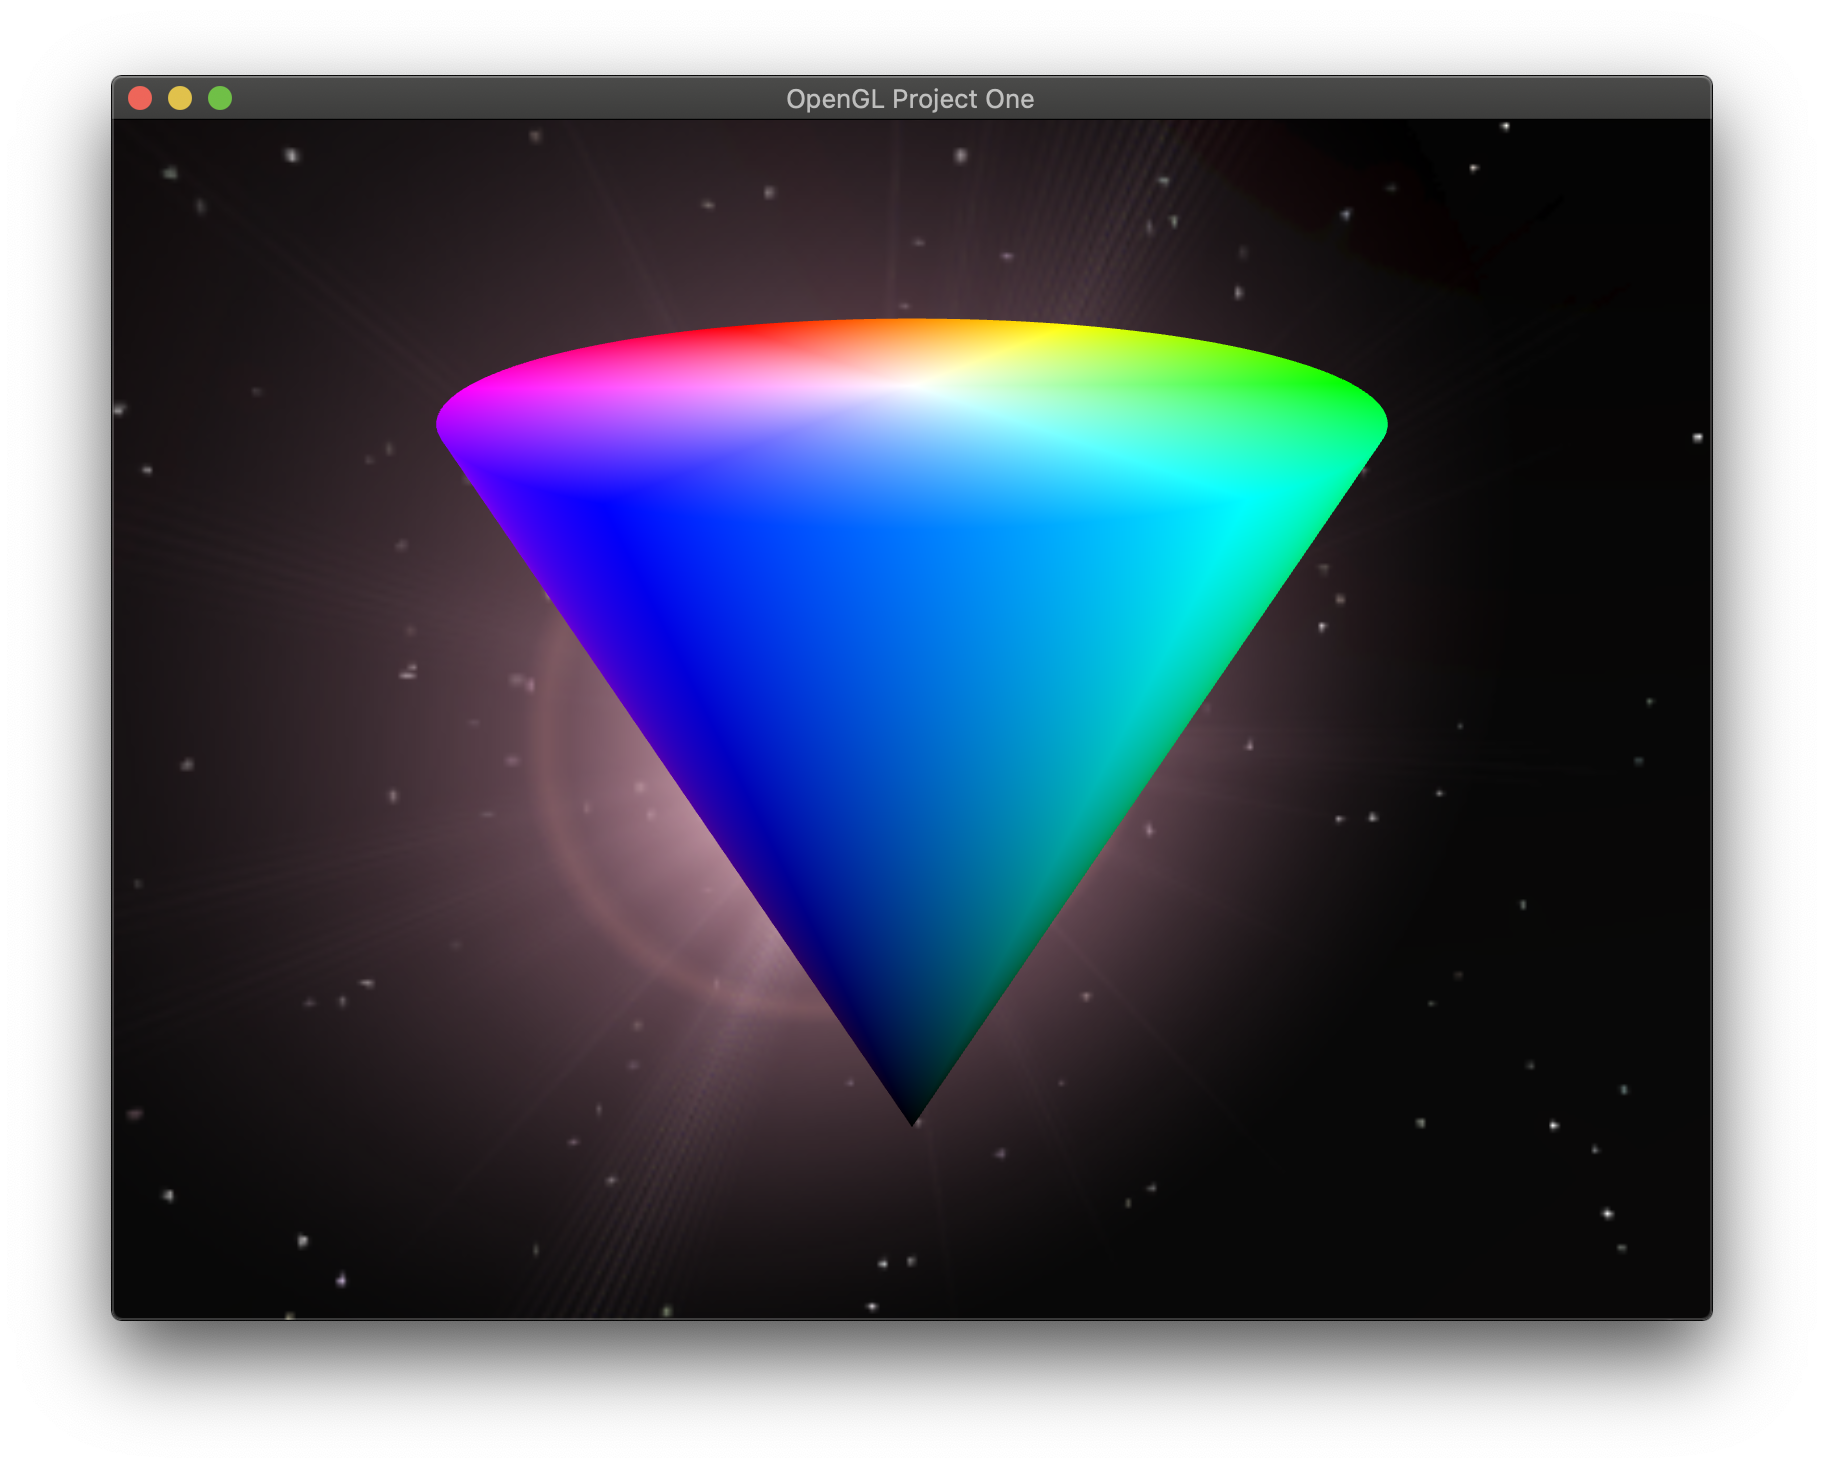
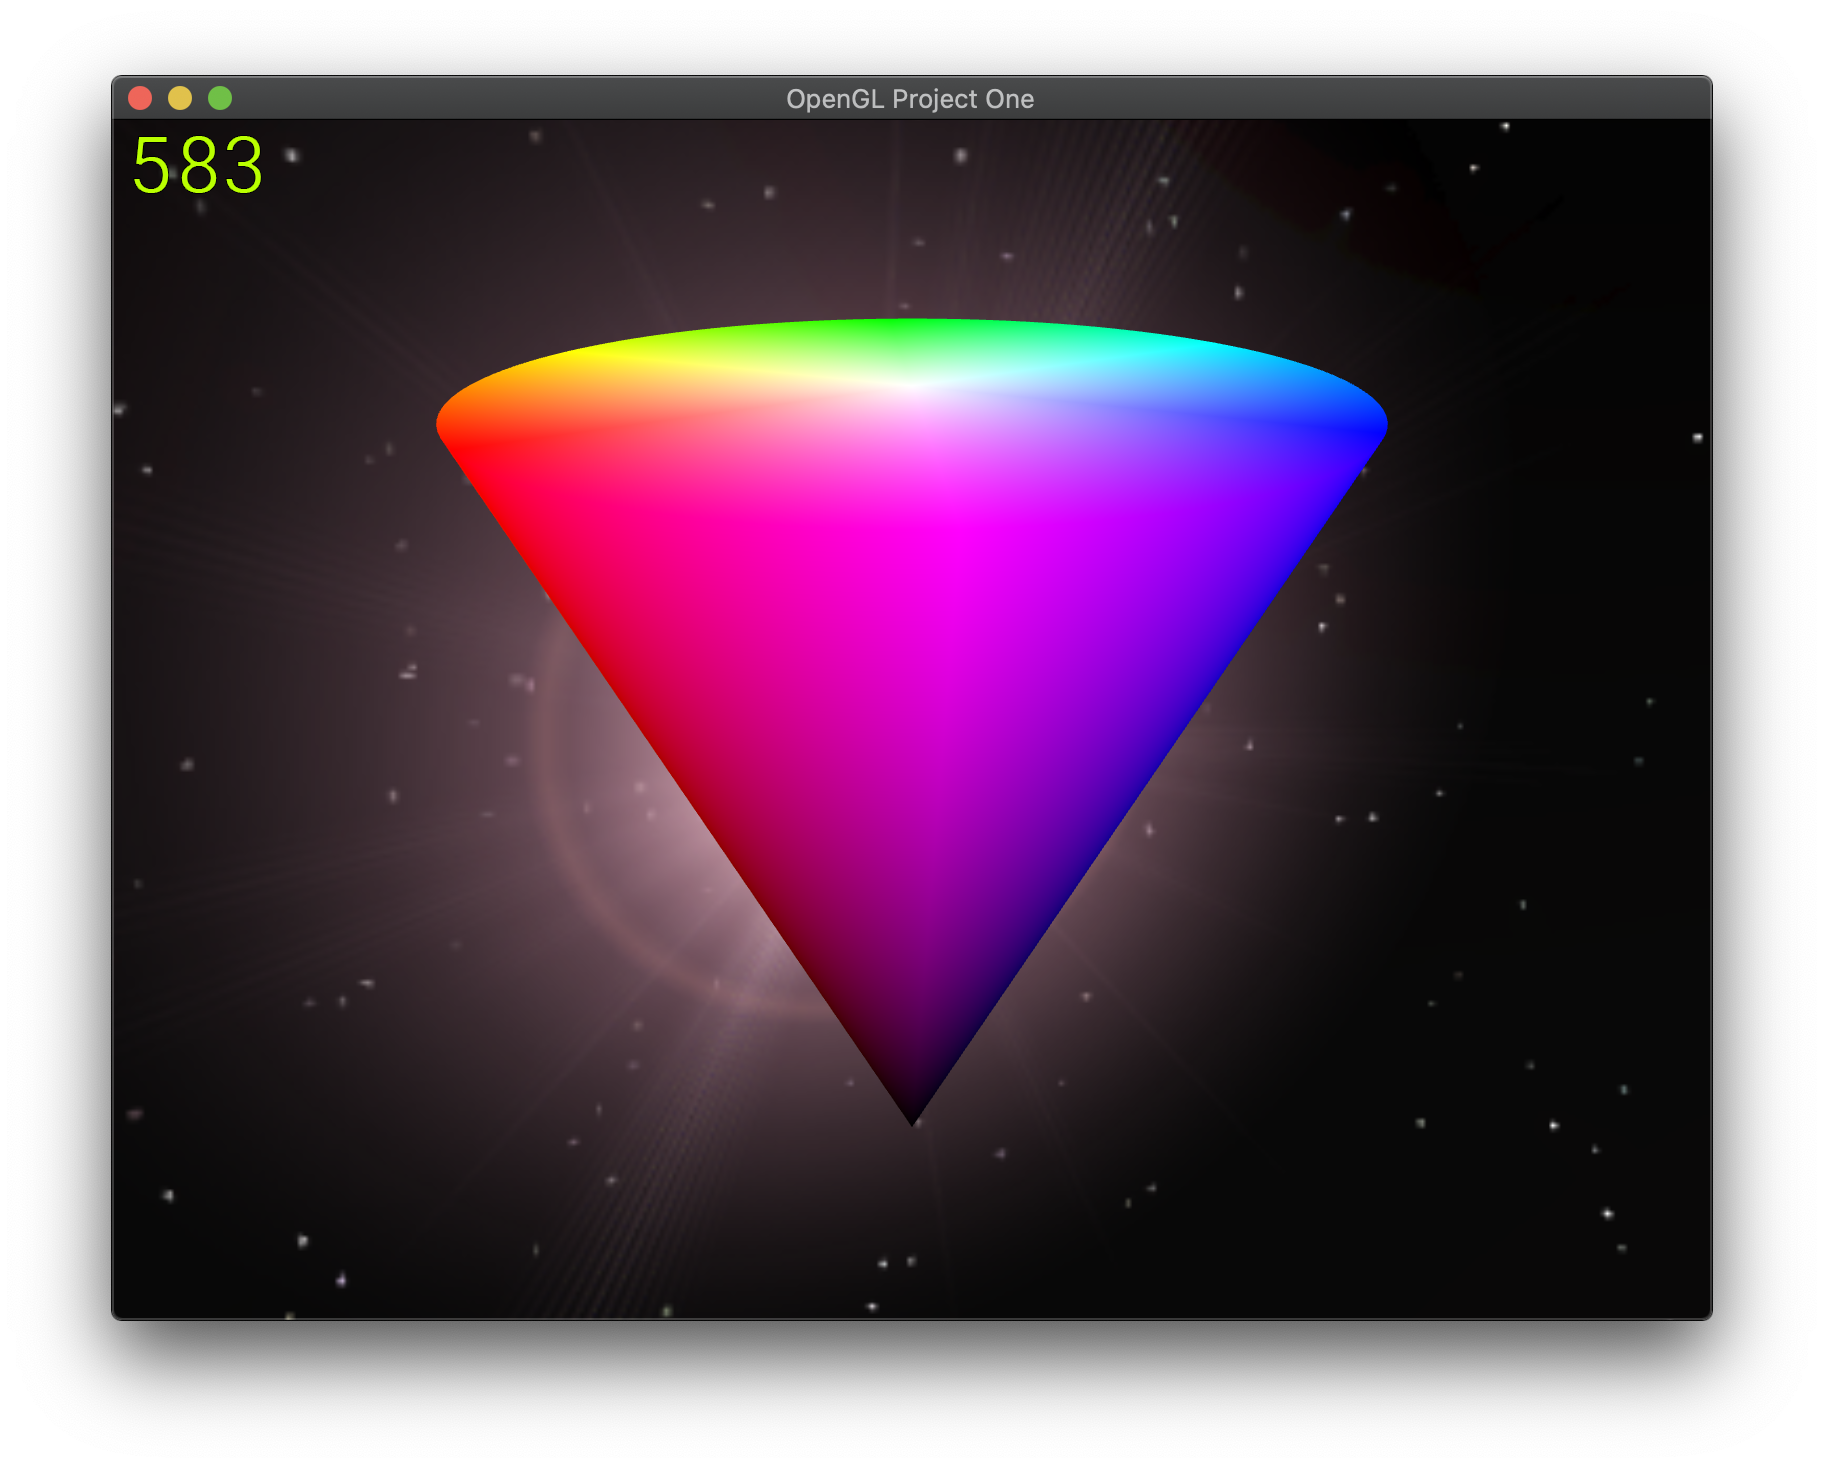
added fps display

Changed region(s): [[0.2188, 0.2146, 0.7812, 0.7663], [0.0625, 0.092, 0.1562, 0.1226]]

diff --git a/proj1/FPS.cpp b/proj1/FPS.cpp
@@ -1,0 +1,135 @@
+#include <stdexcept>
+
+#include "stb_image.h"
+#include "FPS.hpp"
+
+void FPS::loadTexture() noexcept(false) {
+    glBindTexture(GL_TEXTURE_2D, texture);
+
+    int width, height, nrChannels;
+    unsigned char *data = stbi_load("fps.png", &width, &height, &nrChannels, 0);
+    if (data) {
+        glTexImage2D(GL_TEXTURE_2D, 0, GL_RGBA, width, height, 0, GL_RGBA, GL_UNSIGNED_BYTE, data);
+        stbi_image_free(data);
+    } else {
+        stbi_image_free(data);
+        throw std::runtime_error("unable to load skybox textures");
+    }
+
+    glTexParameteri(GL_TEXTURE_2D, GL_TEXTURE_MIN_FILTER, GL_LINEAR);
+    glTexParameteri(GL_TEXTURE_2D, GL_TEXTURE_MAG_FILTER, GL_LINEAR);
+
+    glBindTexture(GL_TEXTURE_2D, 0);
+}
+
+FPS::FPS(
+        const Shader *const shaderProgram,
+        const GLsizei width,
+        const GLsizei height
+) noexcept : VAO(0), VBO(0), shader(shaderProgram), texture(0) {
+    const GLfloat px = 2.0f / static_cast<GLfloat>(width), py = 2.0f / static_cast<GLfloat>(height),
+            x = 48.0f, y = 61.0f, p = 14.0f;
+    vertices = {
+            // 0
+            -1.0f + (p + 0.f * x) * px, 1.0f - (p) * py, 0.f, 1.f,
+            -1.0f + (p + 0.f * x) * px, 1.0f - (p + y) * py, 0.f, 0.f,
+            -1.0f + (p + (0.f + 1.f) * x) * px, 1.0f - (p + y) * py, 0.1f, 0.f,
+
+            -1.0f + (p + 0.f * x) * px, 1.0f - (p) * py, 0.f, 1.f,
+            -1.0f + (p + (0.f + 1.f) * x) * px, 1.0f - (p) * py, 0.1f, 1.f,
+            -1.0f + (p + (0.f + 1.f) * x) * px, 1.0f - (p + y) * py, 0.1f, 0.f,
+            // 1
+            -1.0f + (p + 1.f * x) * px, 1.0f - (p) * py, 0.f, 1.f,
+            -1.0f + (p + 1.f * x) * px, 1.0f - (p + y) * py, 0.f, 0.f,
+            -1.0f + (p + (1.f + 1.f) * x) * px, 1.0f - (p + y) * py, 0.1f, 0.f,
+
+            -1.0f + (p + 1.f * x) * px, 1.0f - (p) * py, 0.f, 1.f,
+            -1.0f + (p + (1.f + 1.f) * x) * px, 1.0f - (p) * py, 0.1f, 1.f,
+            -1.0f + (p + (1.f + 1.f) * x) * px, 1.0f - (p + y) * py, 0.1f, 0.f,
+            // 2
+            -1.0f + (p + 2.f * x) * px, 1.0f - (p) * py, 0.f, 1.f,
+            -1.0f + (p + 2.f * x) * px, 1.0f - (p + y) * py, 0.f, 0.f,
+            -1.0f + (p + (2.f + 1.f) * x) * px, 1.0f - (p + y) * py, 0.1f, 0.f,
+
+            -1.0f + (p + 2.f * x) * px, 1.0f - (p) * py, 0.f, 1.f,
+            -1.0f + (p + (2.f + 1.f) * x) * px, 1.0f - (p) * py, 0.1f, 1.f,
+            -1.0f + (p + (2.f + 1.f) * x) * px, 1.0f - (p + y) * py, 0.1f, 0.f,
+    };
+
+    glGenTextures(1, &texture);
+    loadTexture();
+
+    glGenVertexArrays(1, &VAO);
+    glBindVertexArray(VAO);
+    glGenBuffers(1, &VBO);
+    glBindBuffer(GL_ARRAY_BUFFER, VBO);
+
+    glBufferData(GL_ARRAY_BUFFER, vertices.size() * sizeof(vertices[0]), &vertices[0], GL_DYNAMIC_DRAW);
+    glVertexAttribPointer(0, 2, GL_FLOAT, GL_FALSE, 4 * sizeof(vertices[0]), (GLvoid * )(0 * sizeof(vertices[0])));
+    glEnableVertexAttribArray(0);
+    glVertexAttribPointer(1, 2, GL_FLOAT, GL_FALSE, 4 * sizeof(vertices[0]), (GLvoid * )(2 * sizeof(vertices[0])));
+    glEnableVertexAttribArray(1);
+
+    glBindVertexArray(0);
+    glBindBuffer(GL_ARRAY_BUFFER, 0);
+}
+
+void FPS::Resize(const GLsizei width, const GLsizei height) noexcept {
+    const GLfloat px = 2.0f / static_cast<GLfloat>(width), py = 2.0f / static_cast<GLfloat>(height),
+            x = 48.0f, y = 61.0f, p = 14.0f;
+
+    for (unsigned char i = 0; i < 3; ++i) {
+        vertices[0 + (6 * i + 0) * 4] = vertices[0 + (6 * i + 1) * 4] = vertices[0 + (6 * i + 3) * 4] =
+                -1.0f + (p + static_cast<GLfloat>(i) * x) * px;
+        vertices[0 + (6 * i + 2) * 4] = vertices[0 + (6 * i + 4) * 4] = vertices[0 + (6 * i + 5) * 4] =
+                -1.0f + (p + (static_cast<GLfloat>(i) + 1.f) * x) * px;
+        vertices[1 + (6 * i + 0) * 4] = vertices[1 + (6 * i + 3) * 4] = vertices[1 + (6 * i + 4) * 4] =
+                1.0f - (p) * py;
+        vertices[1 + (6 * i + 1) * 4] = vertices[1 + (6 * i + 2) * 4] = vertices[1 + (6 * i + 5) * 4] =
+                1.0f - (p + y) * py;
+    }
+
+    glBindBuffer(GL_ARRAY_BUFFER, VBO);
+    glBufferSubData(GL_ARRAY_BUFFER, 0 * sizeof(vertices[0]), vertices.size() * sizeof(vertices[0]), &vertices[0]);
+    glBindBuffer(GL_ARRAY_BUFFER, 0);
+}
+
+void FPS::Draw(const GLfloat delta) noexcept {
+    static GLfloat time = 0;
+    static int fps = 0;
+    time += delta;
+    ++fps;
+    if (time > 1.0f) {
+        for (int i = 2, d = fps % 10; i >= 0; --i, fps /= 10, d = fps % 10) {
+            vertices[2 + (6 * i + 0) * 4] = vertices[2 + (6 * i + 1) * 4] = vertices[2 + (6 * i + 3) * 4] =
+                    static_cast<GLfloat>(d) * 0.1f + 0.0f;
+            vertices[2 + (6 * i + 2) * 4] = vertices[2 + (6 * i + 4) * 4] = vertices[2 + (6 * i + 5) * 4] =
+                    static_cast<GLfloat>(d) * 0.1f + 0.1f;
+        }
+
+        glBindBuffer(GL_ARRAY_BUFFER, VBO);
+        glBufferSubData(GL_ARRAY_BUFFER, 0 * sizeof(vertices[0]), vertices.size() * sizeof(vertices[0]), &vertices[0]);
+        glBindBuffer(GL_ARRAY_BUFFER, 0);
+
+        time = 0;
+        fps = 0;
+    }
+
+    shader->Bind();
+    glBindVertexArray(VAO);
+
+    glDepthMask(GL_FALSE);
+    glBindTexture(GL_TEXTURE_2D, texture);
+    glDrawArrays(GL_TRIANGLES, 0, vertices.size());
+    glBindTexture(GL_TEXTURE_2D, 0);
+    glDepthMask(GL_TRUE);
+
+    glBindVertexArray(0);
+    shader->Unbind();
+}
+
+FPS::~FPS() noexcept {
+    glDeleteVertexArrays(1, &VAO);
+    glDeleteBuffers(1, &VBO);
+    glDeleteTextures(1, &texture);
+}

diff --git a/proj1/main.cpp b/proj1/main.cpp
@@ -6,6 +6,7 @@
 #include "Error.hpp"
 #include "Cone.hpp"
 #include "Cube.hpp"
+#include "FPS.hpp"
 
 struct objectStorage {
     glm::mat4 placement;
@@ -16,6 +17,7 @@ GLsizei WIDTH = 800, HEIGHT = 600;
 glm::mat4 VIEW, PROJECTION;
 std::vector<Shader *> SH;
 std::vector<objectStorage *> OBJ;
+FPS *fps;
 Camera *CAMERA;
 std::array<bool, 1024> KEYS;
 std::array<bool, 8> MOUSE;
@@ -94,6 +96,7 @@ void moveCamera(const GLfloat delta) {
 void redraw(const GLfloat delta) noexcept {
     glViewport(0, 0, WIDTH, HEIGHT);
     PROJECTION = glm::perspective(45.0f, (float) WIDTH / (float) HEIGHT, 0.1f, 1000.0f);
+    fps->Resize(WIDTH, HEIGHT);
 
     // move camera
     moveCamera(delta);
@@ -106,6 +109,7 @@ void redraw(const GLfloat delta) noexcept {
 
     // draw everything
     for (const auto &o: OBJ) { o->object->Draw(delta); }
+    fps->Draw(delta);
     glCheckErrors();
 }
 
@@ -121,9 +125,10 @@ int main() {
     w.SetCursorPosCallback(cursorCallback);
 
     // initialise shaders
-    SH.resize(2);
+    SH.resize(3);
     SH[0] = new Shader(VERT_SKYBOX, FRAG_SKYBOX);
     SH[1] = new Shader(VERT_XYZ_RGB, FRAG_RGB);
+    SH[2] = new Shader(VERT_FPS, FRAG_FPS);
 
     // initialise objects
     glm::mat4 placement;
@@ -145,6 +150,9 @@ int main() {
     OBJ.back()->placement = placement;
     OBJ.back()->object = new Cone(SH[1], &(OBJ.back()->placement), &VIEW, &PROJECTION);
 
+    // fps display
+    fps = new FPS(SH[2], WIDTH, HEIGHT);
+
     // main loop
     w.Loop(redraw); // infinite loop while window is open
 
@@ -153,6 +161,7 @@ int main() {
         delete o->object;
         delete o;
     }
+    delete fps;
     for (const auto &s: SH) { delete s; }
 
     w.Destroy();

diff --git a/proj1/Cube.cpp b/proj1/Cube.cpp
@@ -6,8 +6,8 @@
 #include "stb_image.h"
 #include "Cube.hpp"
 
-unsigned int loadTexture(GLuint textureID) {
-    glBindTexture(GL_TEXTURE_CUBE_MAP, textureID);
+void Cube::loadTexture() noexcept(false) {
+    glBindTexture(GL_TEXTURE_CUBE_MAP, texture);
 
     // any from http://www.custommapmakers.org/skyboxes.php
     std::vector<std::string> faces{
@@ -36,7 +36,7 @@ unsigned int loadTexture(GLuint textureID) {
     glTexParameteri(GL_TEXTURE_CUBE_MAP, GL_TEXTURE_WRAP_T, GL_CLAMP_TO_EDGE);
     glTexParameteri(GL_TEXTURE_CUBE_MAP, GL_TEXTURE_WRAP_R, GL_CLAMP_TO_EDGE);
 
-    return textureID;
+    glBindTexture(GL_TEXTURE_CUBE_MAP, 0);
 }
 
 Cube::Cube(
@@ -91,7 +91,7 @@ Cube::Cube(
     };
 
     glGenTextures(1, &texture);
-    loadTexture(texture);
+    loadTexture();
 
     constructorBegin();
 
@@ -109,12 +109,13 @@ void Cube::Draw(GLfloat) noexcept {
 
     glDepthMask(GL_FALSE);
     glBindTexture(GL_TEXTURE_CUBE_MAP, texture);
-    glDrawArrays(GL_TRIANGLES, 0, vertices.size() / 3);
+    glDrawArrays(GL_TRIANGLES, 0, vertices.size());
+    glBindTexture(GL_TEXTURE_CUBE_MAP, 0);
     glDepthMask(GL_TRUE);
 
     drawEnd();
 }
 
-Cube::~Cube() {
+Cube::~Cube() noexcept {
     glDeleteTextures(1, &texture);
 }

diff --git a/proj1/FPS.hpp b/proj1/FPS.hpp
@@ -1,0 +1,41 @@
+#ifndef OPENGL_FPS_HPP
+#define OPENGL_FPS_HPP
+
+#include <vector>
+
+#include <glm.hpp>
+#include <gtc/matrix_transform.hpp>
+#include <gtc/type_ptr.hpp>
+
+#include <GL/glew.h>
+
+#include "Shader.hpp"
+
+class FPS {
+    GLuint VAO;
+    GLuint VBO;
+
+    GLuint texture;
+
+    const Shader *const shader;
+
+    std::vector<GLfloat> vertices;
+
+    void loadTexture() noexcept(false);
+
+public:
+    FPS() = delete;
+
+    explicit
+    FPS(const Shader *, GLsizei, GLsizei) noexcept;
+
+    void Resize(GLsizei, GLsizei) noexcept;
+
+    virtual
+    void Draw(GLfloat) noexcept;
+
+    virtual
+    ~FPS() noexcept;
+};
+
+#endif //OPENGL_FPS_HPP

diff --git a/proj1/Shader.hpp b/proj1/Shader.hpp
@@ -34,6 +34,32 @@ public:
     ~Shader() noexcept;
 };
 
+const GLchar FRAG_FPS[] = R"~(
+#version 330 core
+
+out vec4 color;
+
+in vec2 TexCoords;
+
+uniform sampler2D ourTexture;
+
+void main() {
+    color = texture(ourTexture, TexCoords);
+})~";
+
+const GLchar VERT_FPS[] = R"~(
+#version 330 core
+
+layout (location = 0) in vec2 inXY;
+layout (location = 1) in vec2 texXY;
+
+out vec2 TexCoords;
+
+void main() {
+    gl_Position = vec4(inXY, 0.0f, 1.0f);
+    TexCoords = texXY;
+})~";
+
 const GLchar FRAG_RGB[] = R"~(
 #version 330 core
 

diff --git a/proj1/Cube.hpp b/proj1/Cube.hpp
@@ -6,6 +6,8 @@
 class Cube : public Object {
     GLuint texture;
 
+    void loadTexture() noexcept(false);
+
 public:
     explicit
     Cube(const Shader *, const glm::mat4 *,
@@ -13,7 +15,7 @@ public:
 
     void Draw(GLfloat) noexcept override;
 
-    ~Cube() override;
+    ~Cube() noexcept override;
 };
 
 #endif //OPENGL_CUBE_HPP
